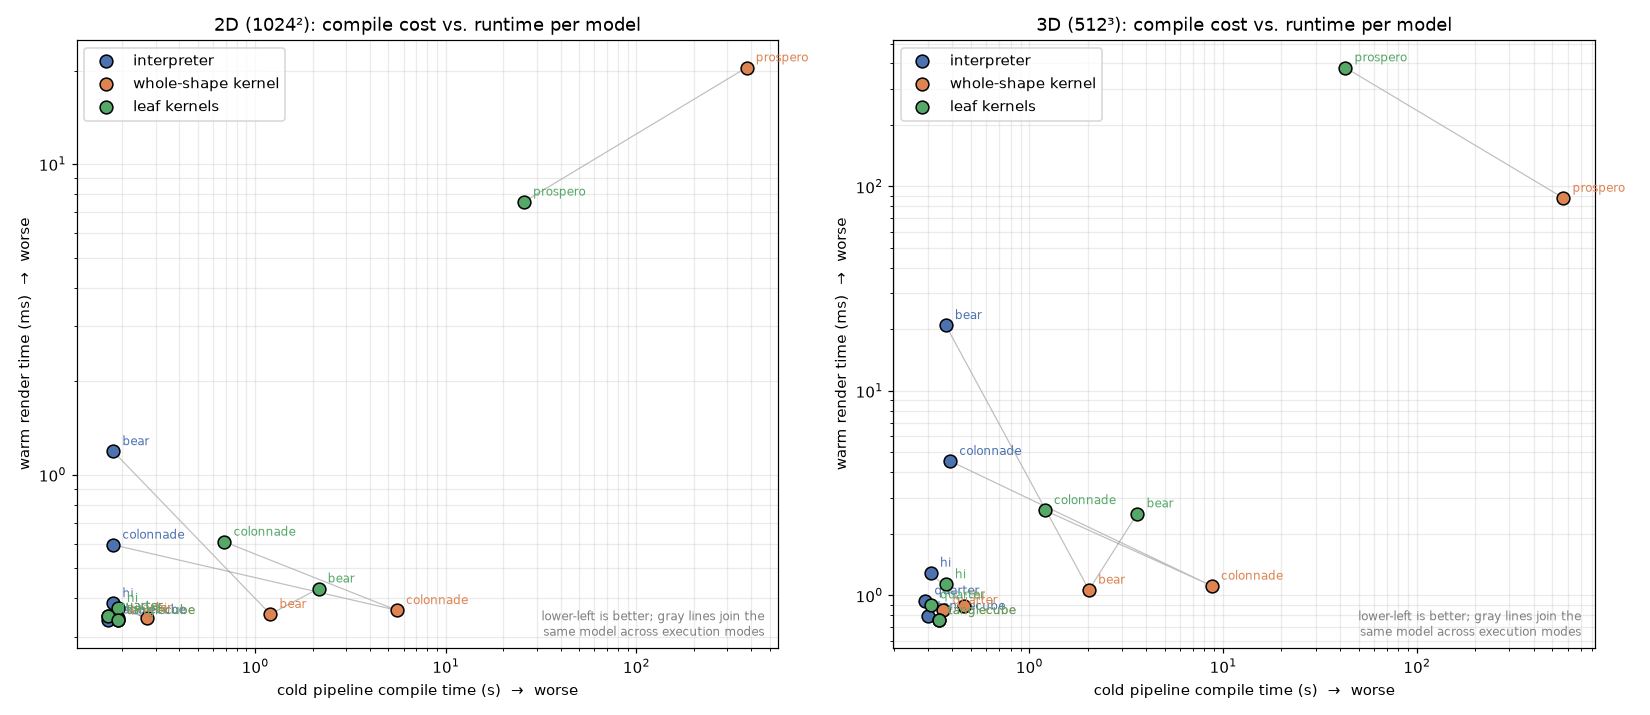
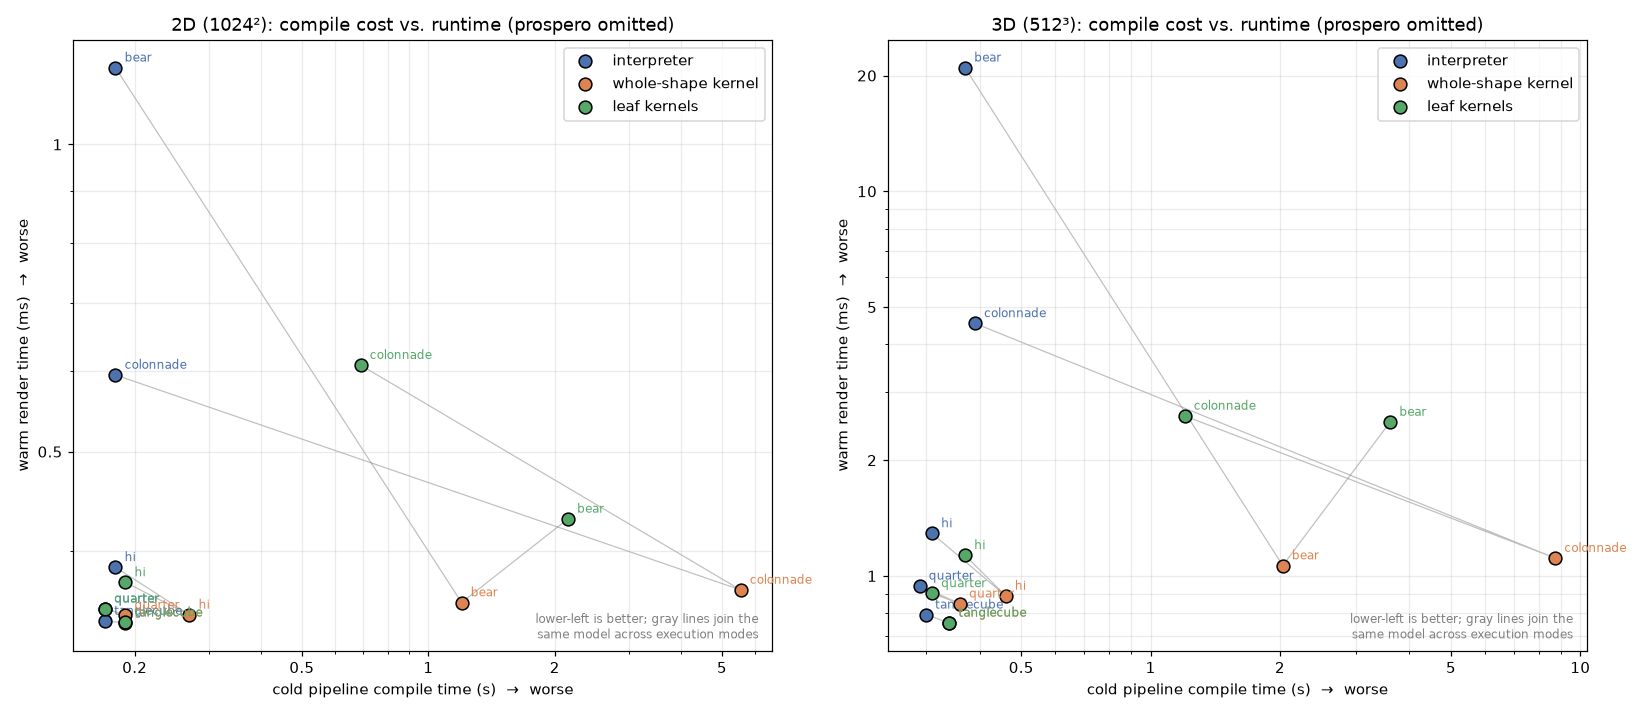
Drop time-to-N-frames graphs; omit prospero from compile vs render

diff --git a/scripts/plot.py b/scripts/plot.py
@@ -92,7 +92,7 @@ fig, axes = plt.subplots(1, 2, figsize=(15, 6.5))
 for ax, dim, size in zip(axes, ['2d', '3d'], ['1024²', '512³']):
     for mode in MODES:
         xs, ys, names = [], [], []
-        for model in MODELS:
+        for model in [m for m in MODELS if m != 'prospero']:
             c = compile_.get((model, dim, mode)); r = render.get((model, dim, mode))
             if c is None or r is None:
                 continue
@@ -101,15 +101,22 @@ for ax, dim, size in zip(axes, ['2d', '3d'], ['1024²', '512³']):
         for x, y, n in zip(xs, ys, names):
             ax.annotate(n, (x, y), textcoords='offset points', xytext=(6, 4), fontsize=8, color=COLORS[mode])
     # connect modes per model
-    for model in MODELS:
+    for model in [m for m in MODELS if m != 'prospero']:
         pts = [(compile_.get((model, dim, m)), render.get((model, dim, m))) for m in MODES]
         pts = [p for p in pts if None not in p]
         if len(pts) > 1:
             ax.plot(*zip(*pts), color='gray', lw=0.8, alpha=0.5, zorder=1)
     ax.set_xscale('log'); ax.set_yscale('log')
+    from matplotlib.ticker import FixedLocator, NullFormatter, FuncFormatter
+    ax.xaxis.set_major_locator(FixedLocator([0.2, 0.5, 1, 2, 5, 10]))
+    ax.xaxis.set_minor_formatter(NullFormatter())
+    ax.xaxis.set_major_formatter(FuncFormatter(lambda v, _: f"{v:g}"))
+    ax.yaxis.set_minor_formatter(NullFormatter())
+    ax.yaxis.set_major_locator(FixedLocator([0.3, 0.5, 1, 2, 5, 10, 20]))
+    ax.yaxis.set_major_formatter(FuncFormatter(lambda v, _: f"{v:g}"))
     ax.set_xlabel("cold pipeline compile time (s)  →  worse")
     ax.set_ylabel("warm render time (ms)  →  worse")
-    ax.set_title(f"{dim.upper()} ({size}): compile cost vs. runtime per model")
+    ax.set_title(f"{dim.upper()} ({size}): compile cost vs. runtime (prospero omitted)")
     ax.grid(True, which='both', alpha=0.25)
     ax.legend()
     ax.text(0.98, 0.02, "lower-left is better; gray lines join the\nsame model across execution modes",
